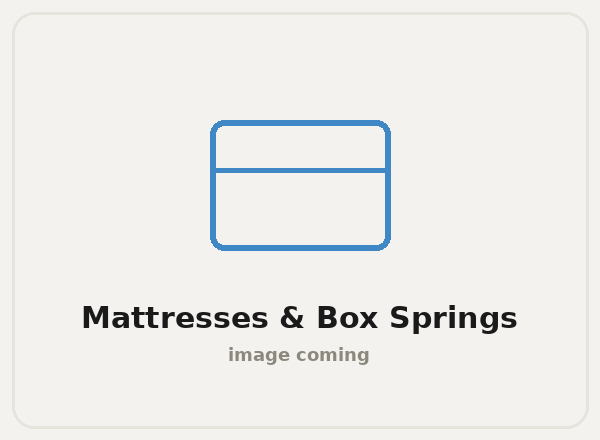
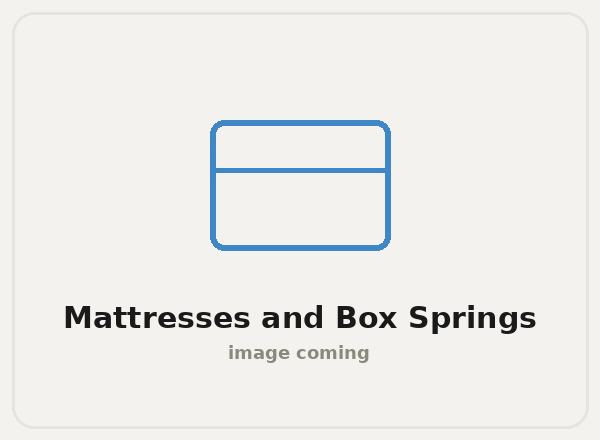
book/choose: expand single-item picker to full placeholder set
Claude-Session: https://claude.ai/code/session_01B6Y9b9JT399oGcXsLa4yEQ

Changed region(s): [[0.36, 0.6795, 0.9, 0.8273], [0.09, 0.6795, 0.33, 0.7682]]

diff --git a/book/choose/index.html b/book/choose/index.html
@@ -559,9 +559,19 @@ function gtag_report_conversion(url) {
 <div class="items-grid">
 <a class="item-card item-unlisted" href="/request-a-quote/"><div class="item-ph"><img src="/images/items/item-not-listed.svg" alt="Item not listed"></div><div class="lbl"><span>Don&rsquo;t see your item?</span><small>Tell us what you&rsquo;ve got &rarr;</small></div></a>
 <a class="item-card" href="https://book.housecallpro.com/book/Jersey-Junkers/62952f42efd34c91aa06cf1c8da29e01?v2=true"><div class="item-ph"><img src="/images/items/sofa.png" alt="Sofas" loading="lazy" onerror="this.onerror=null;this.src='/images/items/item-not-listed.svg'"></div><div class="lbl"><span>Sofas</span></div></a>
-<a class="item-card" href="https://book.housecallpro.com/book/Jersey-Junkers/62952f42efd34c91aa06cf1c8da29e01?v2=true"><div class="item-ph"><img src="/images/items/sectional-sofa.png" alt="Sectional sofas" loading="lazy" onerror="this.onerror=null;this.src='/images/items/item-not-listed.svg'"></div><div class="lbl"><span>Sectional Sofas</span></div></a>
-<a class="item-card" href="https://book.housecallpro.com/book/Jersey-Junkers/62952f42efd34c91aa06cf1c8da29e01?v2=true"><div class="item-ph"><img src="/images/items/mattress.png" alt="Mattresses and box springs" loading="lazy" onerror="this.onerror=null;this.src='/images/items/item-not-listed.svg'"></div><div class="lbl"><span>Mattresses &amp; Box Springs</span></div></a>
-<a class="item-card" href="https://book.housecallpro.com/book/Jersey-Junkers/62952f42efd34c91aa06cf1c8da29e01?v2=true"><div class="item-ph"><img src="/images/items/refrigerator.png" alt="Refrigerators and freezers" loading="lazy" onerror="this.onerror=null;this.src='/images/items/item-not-listed.svg'"></div><div class="lbl"><span>Refrigerators &amp; Freezers</span></div></a>
+<a class="item-card" href="https://book.housecallpro.com/book/Jersey-Junkers/62952f42efd34c91aa06cf1c8da29e01?v2=true"><div class="item-ph"><img src="/images/items/sectional-sofa.png" alt="Sectional Sofas" loading="lazy" onerror="this.onerror=null;this.src='/images/items/item-not-listed.svg'"></div><div class="lbl"><span>Sectional Sofas</span></div></a>
+<a class="item-card" href="https://book.housecallpro.com/book/Jersey-Junkers/62952f42efd34c91aa06cf1c8da29e01?v2=true"><div class="item-ph"><img src="/images/items/loveseat.png" alt="Loveseats" loading="lazy" onerror="this.onerror=null;this.src='/images/items/item-not-listed.svg'"></div><div class="lbl"><span>Loveseats</span></div></a>
+<a class="item-card" href="https://book.housecallpro.com/book/Jersey-Junkers/62952f42efd34c91aa06cf1c8da29e01?v2=true"><div class="item-ph"><img src="/images/items/recliner-chair.png" alt="Recliners &amp; Chairs" loading="lazy" onerror="this.onerror=null;this.src='/images/items/item-not-listed.svg'"></div><div class="lbl"><span>Recliners &amp; Chairs</span></div></a>
+<a class="item-card" href="https://book.housecallpro.com/book/Jersey-Junkers/62952f42efd34c91aa06cf1c8da29e01?v2=true"><div class="item-ph"><img src="/images/items/mattress.png" alt="Mattresses &amp; Box Springs" loading="lazy" onerror="this.onerror=null;this.src='/images/items/item-not-listed.svg'"></div><div class="lbl"><span>Mattresses &amp; Box Springs</span></div></a>
+<a class="item-card" href="https://book.housecallpro.com/book/Jersey-Junkers/62952f42efd34c91aa06cf1c8da29e01?v2=true"><div class="item-ph"><img src="/images/items/dresser.png" alt="Dressers &amp; Nightstands" loading="lazy" onerror="this.onerror=null;this.src='/images/items/item-not-listed.svg'"></div><div class="lbl"><span>Dressers &amp; Nightstands</span></div></a>
+<a class="item-card" href="https://book.housecallpro.com/book/Jersey-Junkers/62952f42efd34c91aa06cf1c8da29e01?v2=true"><div class="item-ph"><img src="/images/items/table-desk.png" alt="Tables &amp; Desks" loading="lazy" onerror="this.onerror=null;this.src='/images/items/item-not-listed.svg'"></div><div class="lbl"><span>Tables &amp; Desks</span></div></a>
+<a class="item-card" href="https://book.housecallpro.com/book/Jersey-Junkers/62952f42efd34c91aa06cf1c8da29e01?v2=true"><div class="item-ph"><img src="/images/items/tv.png" alt="TVs" loading="lazy" onerror="this.onerror=null;this.src='/images/items/item-not-listed.svg'"></div><div class="lbl"><span>TVs</span></div></a>
+<a class="item-card" href="https://book.housecallpro.com/book/Jersey-Junkers/62952f42efd34c91aa06cf1c8da29e01?v2=true"><div class="item-ph"><img src="/images/items/exercise-equipment.png" alt="Exercise Equipment" loading="lazy" onerror="this.onerror=null;this.src='/images/items/item-not-listed.svg'"></div><div class="lbl"><span>Exercise Equipment</span></div></a>
+<a class="item-card" href="https://book.housecallpro.com/book/Jersey-Junkers/62952f42efd34c91aa06cf1c8da29e01?v2=true"><div class="item-ph"><img src="/images/items/refrigerator.png" alt="Refrigerators &amp; Freezers" loading="lazy" onerror="this.onerror=null;this.src='/images/items/item-not-listed.svg'"></div><div class="lbl"><span>Refrigerators &amp; Freezers</span></div></a>
+<a class="item-card" href="https://book.housecallpro.com/book/Jersey-Junkers/62952f42efd34c91aa06cf1c8da29e01?v2=true"><div class="item-ph"><img src="/images/items/washer-dryer.png" alt="Washers &amp; Dryers" loading="lazy" onerror="this.onerror=null;this.src='/images/items/item-not-listed.svg'"></div><div class="lbl"><span>Washers &amp; Dryers</span></div></a>
+<a class="item-card" href="https://book.housecallpro.com/book/Jersey-Junkers/62952f42efd34c91aa06cf1c8da29e01?v2=true"><div class="item-ph"><img src="/images/items/dishwasher.png" alt="Dishwashers" loading="lazy" onerror="this.onerror=null;this.src='/images/items/item-not-listed.svg'"></div><div class="lbl"><span>Dishwashers</span></div></a>
+<a class="item-card" href="https://book.housecallpro.com/book/Jersey-Junkers/62952f42efd34c91aa06cf1c8da29e01?v2=true"><div class="item-ph"><img src="/images/items/stove-oven.png" alt="Stoves &amp; Ovens" loading="lazy" onerror="this.onerror=null;this.src='/images/items/item-not-listed.svg'"></div><div class="lbl"><span>Stoves &amp; Ovens</span></div></a>
+<a class="item-card" href="https://book.housecallpro.com/book/Jersey-Junkers/62952f42efd34c91aa06cf1c8da29e01?v2=true"><div class="item-ph"><img src="/images/items/grill.png" alt="Grills" loading="lazy" onerror="this.onerror=null;this.src='/images/items/item-not-listed.svg'"></div><div class="lbl"><span>Grills</span></div></a>
 </div>
 </div>
 
